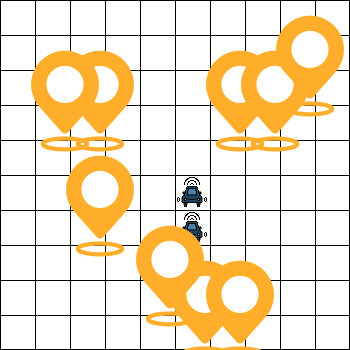
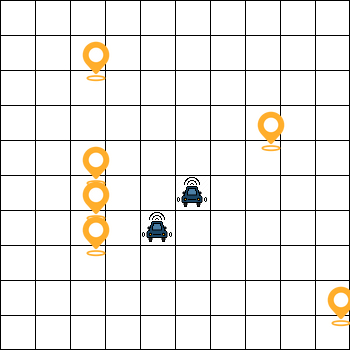
render and evaluation phase, model load from directory

Changed region(s): [[0.0857, 0.1143, 0.8, 1.0], [0.5714, 0.0286, 1.0, 0.4571], [0.9143, 0.8, 1.0, 0.9429]]

diff --git a/src/envs/dvrp_env.py b/src/envs/dvrp_env.py
@@ -72,8 +72,8 @@ class DVRPEnv(Env):
         self._total_appeared_orders = 0
 
         #Render parameters
-        self.icon_av, _ = draw_image('av.png')
-        self.icon_pkg, _ = draw_image('pin.png')
+        self.icon_av, _ = draw_image('rsz_1rsz_truck.png')
+        self.icon_pkg, _ = draw_image('rsz_1pin.png')
         # self.icon_pkg = self.icon_pkg.convert("RGBA")
         self.viewer = None
 
@@ -98,7 +98,6 @@ class DVRPEnv(Env):
 
 
     def step(self, actions):
-        self.render()
         vehicles_action = list(actions)
         self.vehicles_action_history.append(vehicles_action)
         self._step_count += 1
@@ -256,7 +255,8 @@ class DVRPEnv(Env):
             self.vehicles_pos[vehicle_i] = next_pos
 
 
-    def render(self):
+    def render(self, mode = 'human', close = False):
+
         img = copy.copy(self._base_img)
 
         # Agents
@@ -267,20 +267,29 @@ class DVRPEnv(Env):
         for idx, j in enumerate(self.order_status):
             if j != -1:
                 fill_cell_im(img, self.icon_pkg, self.orders_pos[idx], cell_size=CELL_SIZE)
+        # img.show()
 
-        self.images.append(img)
-        # img = np.asarray(img)
-        img.show()
-        img.save('gridworld.jpg', format='JPEG', subsampling=0, quality=100)
-
-        # from gym.envs.classic_control import rendering
-        # if self.viewer is None:
-        #     self.viewer = rendering.SimpleImageViewer()
-        #     self.viewer.imshow(img)
-        # return self.viewer.isopen
+        # self.images.append(img)
+        img = np.asarray(img)
+        # img.save('gridworld.jpg', format='JPEG', subsampling=0, quality=100)
+        from gym.envs.classic_control import rendering
+        if self.viewer is None:
+            self.viewer = rendering.SimpleImageViewer()
+        self.viewer.imshow(img)
+        # return self.viewer.render(return_rgb_array = mode=='rgb_array')
+        return self.viewer.isopen
 
     def close(self):
-        pass
+
+        if self.images is not False:
+            self.images[0].save(f'config/envs/results/1.gif', format='GIF',
+                                append_images=self.images[1:],
+                                save_all=True,
+                                duration=len(self.images) / 10, loop=0)
+
+        if self.viewer is not None:
+            self.viewer.close()
+            self.viewer = None
 
     def __draw_base_img(self):
         self._base_img = draw_grid(self._grid_shape[0], self._grid_shape[1], cell_size=CELL_SIZE, fill='white')

diff --git a/src/runners/episode_runner.py b/src/runners/episode_runner.py
@@ -67,6 +67,7 @@ class EpisodeRunner:
             actions = self.mac.select_actions(self.batch, t_ep=self.t, t_env=self.t_env, test_mode=test_mode)
 
             reward, terminated, env_info = self.env.step(actions[0])
+            self.env.render()
             episode_return += reward
 
             post_transition_data = {
@@ -78,7 +79,7 @@ class EpisodeRunner:
             self.batch.update(post_transition_data, ts=self.t)
 
             self.t += 1
-
+        # self.env.close()
         last_data = {
             "state": [self.env.get_state()],
             "avail_actions": [self.env.get_avail_actions()],

diff --git a/src/envs/utils.py b/src/envs/utils.py
@@ -31,7 +31,7 @@ def load_graph(file_name):
 def draw_map(file_name):
     with open(file_name, "rb") as f:
         load = pickle.load(f)
-    fig, ax = plt.subplots(figsize=(50, 50))
+    fig, ax = plt.subplots(figsize=(10, 10))
     load[1].plot(ax=ax,alpha=0.2)
     fig.show()
     fig.canvas.draw()

diff --git a/src/run.py b/src/run.py
@@ -53,7 +53,7 @@ def run(_run, _config, _log):
     logger.setup_sacred(_run)
 
     # Run and train
-    run_sequential(args=args, logger=logger)
+    run_sequential(args=args, logger=logger) #here is main
 
     # Clean up after finishing
     print("Exiting Main")
